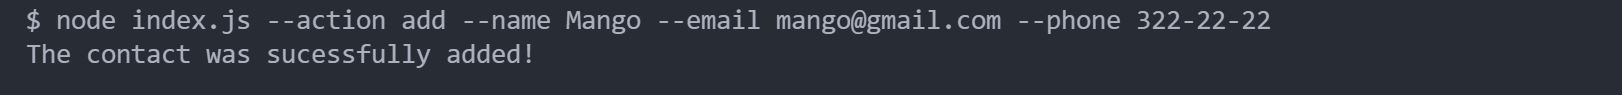
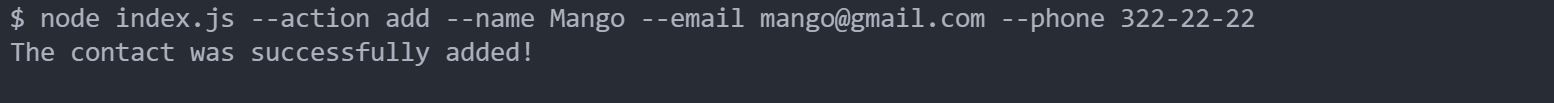
Fixed typos.

Changed region(s): [[0.0, 0.0632, 0.8031, 0.3579], [0.0, 0.4, 0.3398, 0.6737], [0.2471, 0.6947, 0.278, 0.7158]]

diff --git a/contacts.js b/contacts.js
@@ -46,7 +46,7 @@ function addContact(name, email, phone) {
       parsedContacts.push({ id: uuidv4(), name, email, phone });
 
       fs.writeFile(contactsPath, JSON.stringify(parsedContacts, null, 2)).then(() =>
-        console.log(`The contact was sucessfully added!`)
+        console.log(`The contact was sucсessfully added!`)
       );
     })
     .catch((error) => console.log(error.message));
